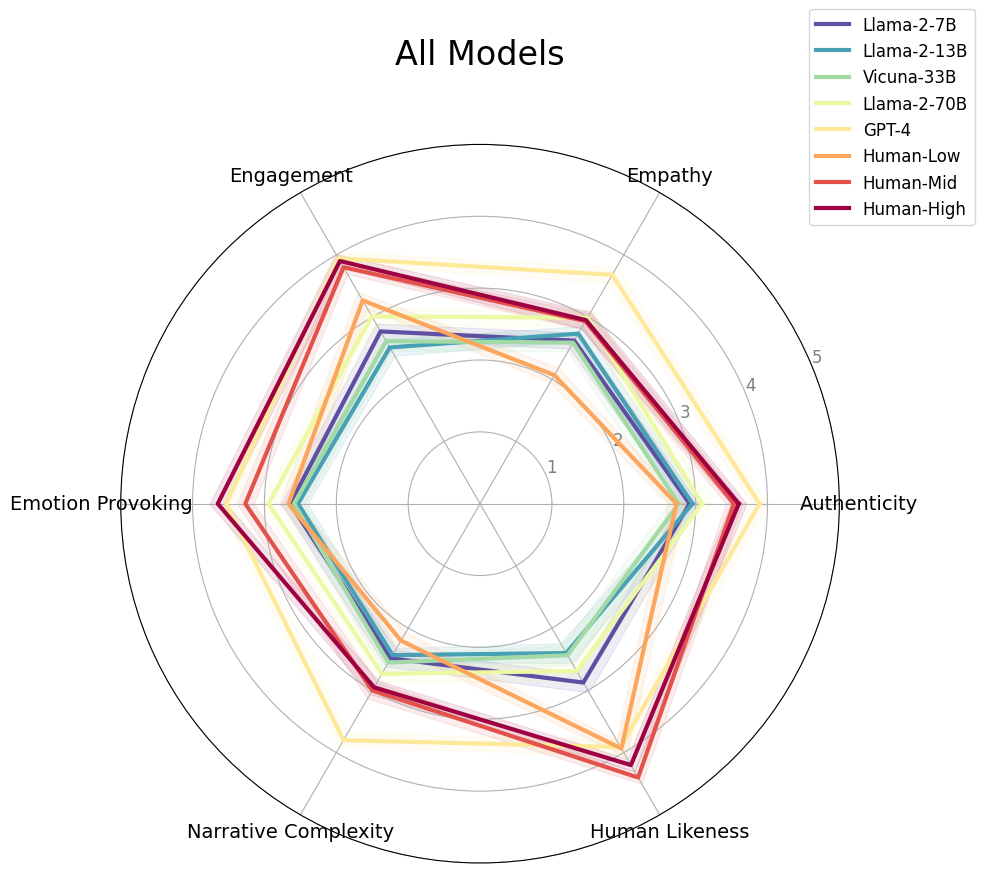
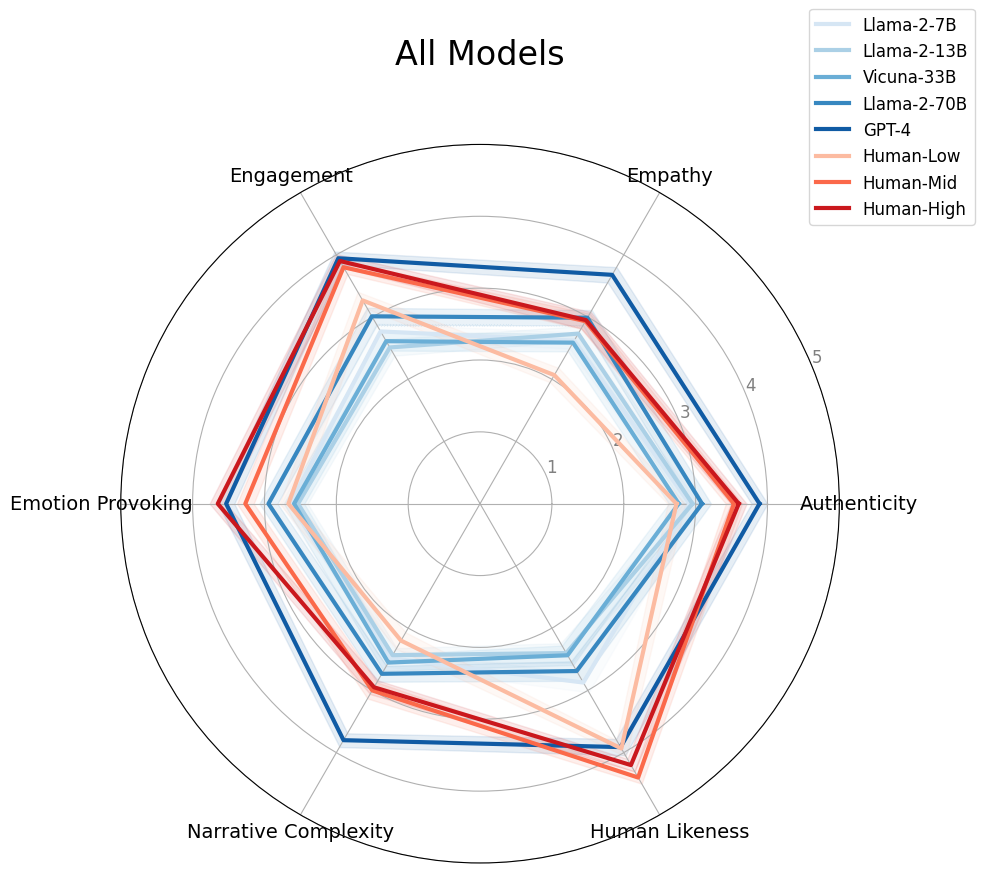
standardizing colors + adding smooth cdf option

Changed region(s): [[0.2134, 0.2784, 0.7927, 0.8969], [0.8232, 0.0, 0.8537, 0.2474]]

diff --git a/story_eval/visualize.py b/story_eval/visualize.py
@@ -1,6 +1,7 @@
 import pandas as pd
 import numpy as np
 import matplotlib.pyplot as plt
+import seaborn as sns
 
 # Function to add a radar chart with filled variance
 def add_radar_chart_filled_variance(ax, angles, data_row, label, color, variance_fraction=0.2, line_width=3):
@@ -15,7 +16,7 @@ def add_radar_chart_filled_variance(ax, angles, data_row, label, color, variance
     ax.plot(angles, lower_values, color=color, linewidth=0)
     ax.fill_between(angles, lower_values, upper_values, color=color, alpha=0.1)
 
-def plot_spider(df, models, title, save_path=None, sort_order=None):
+def plot_spider(df, models, title, sort_order, colors, save_path=None):
 
     # Filter data for specific models
     filtered_data = df[df["model_short"].isin(models)]
@@ -31,7 +32,6 @@ def plot_spider(df, models, title, save_path=None, sort_order=None):
     # Prepare data and labels for the radar chart
     labels = [label.split('_')[0].replace('_', ' ').title() for label in aggregated_filtered_data_no_ids.columns[::2]]
     labels = [label.replace('Human', 'Human Likeness').replace('Narrative', 'Narrative Complexity').replace('Emotion', 'Emotion Provoking') for label in labels]
-    colors = plt.cm.Spectral_r(np.linspace(0, 1, len(sort_order)))
 
     # Set up the radar chart
     fig, ax = plt.subplots(figsize=(10, 10), subplot_kw=dict(polar=True))
@@ -69,7 +69,18 @@ def plot_model_cdf(data, model, column, ax, color, marker):
     ax.set_xticks(np.arange(1, 6))
     ax.set_ylim([0, 1])
 
-def plot_cdf(df, models, title, nrows, ncols, save_path, sort_order):
+def plot_model_cdf_smooth(data, model, column, ax, color, marker):
+    model_data = data[data['model_short'] == model][column]
+    sns.kdeplot(model_data, cumulative=True, ax=ax, label=model, color=color)
+
+    ax.set_title(f'{column.replace("_", " ").replace("score", "").title()}')
+    ax.set_xlabel('Scores')
+    ax.set_ylabel('Cumulative Probability')
+    ax.set_xticks(np.arange(1, 6))
+    ax.set_xlim(0, 6)  # Set the x-axis range
+    ax.set_ylim([0, 1])
+
+def plot_cdf(df, models, title, nrows, ncols, sort_order, colors, smooth=True, save_path=None):
 
     # Defining a list of unique markers for the models
     markers = ['1', '2', '3', '4', 'D', 'v', '>', '^']
@@ -83,10 +94,6 @@ def plot_cdf(df, models, title, nrows, ncols, save_path, sort_order):
     # Prepare data and labels for the radar chart
     score_columns = [col for col in sorted_df.columns if col.endswith('_score')]
     
-    llm_colors = plt.cm.Blues(np.linspace(0, 1, 7))[1:-1]
-    human_colors = plt.cm.Reds(np.linspace(0, 1, 5))[1:-1]
-    colors = np.concatenate((llm_colors, human_colors), axis=0)
-
     # Creating the updated plots
     fig, axes = plt.subplots(nrows=nrows, ncols=ncols, figsize=(5 * ncols, 5 * nrows), sharex='col', sharey='row')
     fig.suptitle(title, fontsize=16)
@@ -100,7 +107,11 @@ def plot_cdf(df, models, title, nrows, ncols, save_path, sort_order):
     # Plotting the CDF for each component, including all models in the specified order
     for i, column in enumerate(score_columns):
         for model, color, marker in zip(models, colors, markers):
-            plot_model_cdf(sorted_df, model, column, axes[i], color, marker)
+            if smooth:
+                plot_model_cdf_smooth(sorted_df, model, column, axes[i], color, marker)
+            else:
+                plot_model_cdf(sorted_df, model, column, axes[i], color, marker)
+
 
     # Adjust layout and add a combined legend
     plt.tight_layout(rect=[0, 0.03, 1, 0.96])
@@ -131,6 +142,10 @@ if __name__ == "__main__":
         "Human-High":  7,
     }
 
+    llm_colors = plt.cm.Blues(np.linspace(0, 1, 7))[1:-1]
+    human_colors = plt.cm.Reds(np.linspace(0, 1, 5))[1:-1]
+    colors = np.concatenate((llm_colors, human_colors), axis=0)
+
     save_path = "./story_eval/imgs/"
 
     # Spider Plots
@@ -139,21 +154,24 @@ if __name__ == "__main__":
         models=list(sort_order)[4:], 
         title="GPT-4 vs Human Quaility Levels", 
         save_path=os.path.join(save_path, "mean_scores_gpt4_vs_humans.png"),
-        sort_order=sort_order
+        sort_order=sort_order,
+        colors=colors
     )
     plot_spider(
         df=human_ratings_df, 
         models=list(sort_order)[:5], 
         title="GPT-4 vs Other LLMs", 
         save_path=os.path.join(save_path, "mean_scores_gpt4_vs_llms.png"),
-        sort_order=sort_order
+        sort_order=sort_order,
+        colors=colors
     )
     plot_spider(
         df=human_ratings_df, 
         models=list(sort_order), 
         title="All Models", 
         save_path=os.path.join(save_path, "mean_scores_all.png"),
-        sort_order=sort_order
+        sort_order=sort_order,
+        colors=colors
     )
 
     # CDF plots
@@ -163,6 +181,20 @@ if __name__ == "__main__":
         nrows=2, 
         ncols=3,
         title="CDF for Each Psychological Depth Component Across Models", 
-        save_path=os.path.join(save_path, "cdf_all.png"),
-        sort_order=sort_order
+        save_path=os.path.join(save_path, "cdf_all_rough.png"),
+        sort_order=sort_order,
+        colors=colors,
+        smooth=False
+    )
+
+    plot_cdf(
+        df=human_ratings_df, 
+        models=list(sort_order), 
+        nrows=2, 
+        ncols=3,
+        title="CDF for Each Psychological Depth Component Across Models", 
+        save_path=os.path.join(save_path, "cdf_all_smooth.png"),
+        sort_order=sort_order,
+        colors=colors,
+        smooth=True
     )
